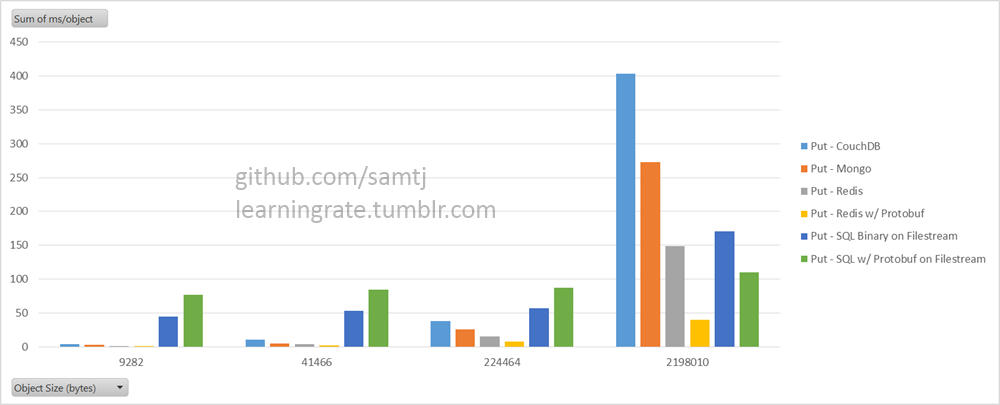
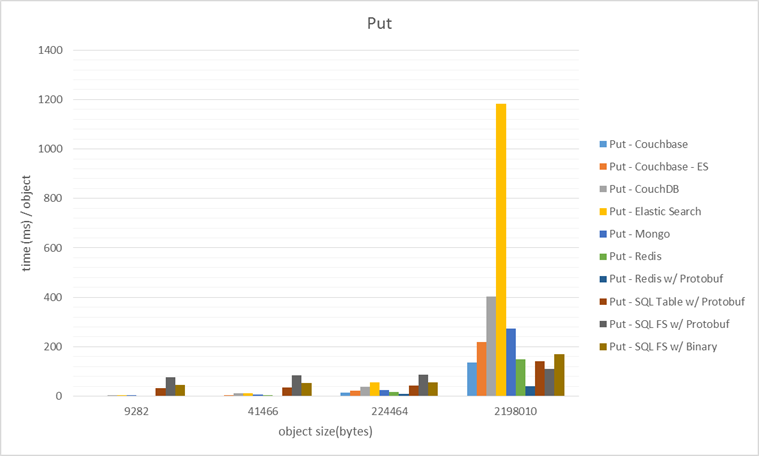
Updated benchmarks and readme.
Updated benchmarks and readme.

diff --git a/README.md b/README.md
@@ -6,24 +6,36 @@ Persistence Latency Benchmark
 This is a standard and personal latency benchmark of Get & Put operations on POCO C# objects against the different permutations of common durable stores and serialization techniques.
 Note the interesting behavior as complexity of the objects increase.
 
-Included "databases" in this benchmark:
+Included "data stores" in this benchmark:
 - CouchDB
 - MongoDB
 - Redis
+- Couchbase
+- Elastic Search
+- Couchbase w/ Replication to Elastic Search
 - SQLServer Filestream
+- SQLServer Table Storage
 
 Included serialization techniques:
 - .NET BinaryFormatter
 - Google Protocol Buffers
+- Json.NET by Newtonsoft
 
-Note that the following operations are run on a local laptop and averaged over 10 runs.
-All "databases" are setup on the same laptop to mitigate network latency between nodes.
+Note that the following operations are run on a local Windows 7 laptop and averaged over 5 sets of 20 runs each.
+All "data stores" are setup on the same laptop to mitigate network latency between nodes.
 
 This benchmark is in no way a formal comparison/benchmark.
-This benchmark only provides comparison of the latency aspect of this serialization and persistence.
+This benchmark only provides comparison of the latency aspect of serialization and persistence.
+This benchmark assumes the use-case of a simple Key-Value store. Object ID is assumed to be a unique key and the key is used to retrieve that particular object from the store.
+This benchmark also does not represent the use-case of a system/store under heavy load or in the event of nodes failure as well as node partitioning.
 
-This benchmark does not represent the use-case of a system under heavy load.
+For Put operations, time captured includes serialization from a particular C# POCO and persistence into the store.
+For Get operations, time captured includes query from the store and deserialization from persisted stream (binary, Json, etc) into C# POCO representation.
+
 There are way more advantages and disadvantages of each technology involved not covered in this benchmark.
+
+For example: Elastic Search provides way more flexibility in terms of searching and locating documents by indexes using Lucene.
+However, it does so at a cost that is not covered here.
 
 **Get** Operations
 
@@ -32,5 +44,7 @@ There are way more advantages and disadvantages of each technology involved not 
 **Put** Operations
 
 ![Put Benchmark](PutBenchmark.png)
+
+There is no free lunch.
 
 ~samtj
